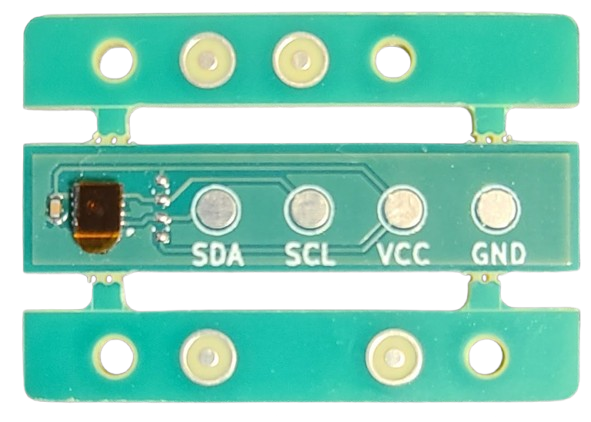
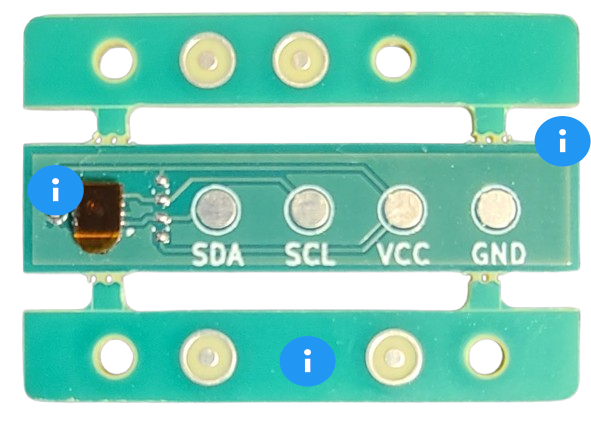
updating cold storage link on home page

Changed region(s): [[0.0305, 0.3697, 0.1523, 0.5237], [0.8832, 0.2773, 1.0, 0.4005], [0.4569, 0.8009, 0.5787, 0.9242]]

diff --git a/src/routes/product/cw-air-th/+page.svelte b/src/routes/product/cw-air-th/+page.svelte
@@ -118,6 +118,16 @@
 		isContactFormOpen = false;
 	}
 
+	let activeTooltip = $state(null);
+
+	function showTooltip(id) {
+		activeTooltip = id;
+	}
+
+	function hideTooltip() {
+		activeTooltip = null;
+	}
+
 	onMount(() => {
 		// Any initialization code can go here
 	});
@@ -388,57 +398,152 @@
 			<div class="relative rounded-lg bg-gray-50 p-6 shadow-lg">
 				<h3 class="mb-4 text-xl font-semibold text-gray-800">Sensor Detail View</h3>
 				<div class="relative">
-					<img 
-						src="/images/cw-sht31-DIS-P-FRONT.png" 
-						alt="CropWatch Air TH Sensor Board" 
+					<!-- Image with map attribute -->
+					<img
+						src="/images/cw-sht31-DIS-P-FRONT.png"
+						alt="CropWatch Air TH Sensor Board"
 						class="mx-auto h-auto w-full max-w-md object-contain"
+						usemap="#sensor-map"
 					/>
-					
-					<!-- SVG Overlay for annotations -->
-					<svg class="absolute inset-0 h-full w-full" viewBox="0 0 500 500" fill="none" xmlns="http://www.w3.org/2000/svg">
-						<!-- Line to Sensirion Chip -->
-						<path d="M150,180 L80,100" stroke="#22c55e" stroke-width="2" />
-						<circle cx="150" cy="180" r="5" fill="#22c55e" />
-						
-						<!-- Text bubble for Sensirion Chip -->
-						<rect x="10" y="60" width="160" height="40" rx="5" fill="#22c55e" />
-						<text x="20" y="85" font-family="Arial" font-size="12" fill="white">Genuine Sensirion SHT31 Sensor</text>
-						
-						<!-- Line to Main Board -->
-						<path d="M300,220 L380,170" stroke="#22c55e" stroke-width="2" />
-						<circle cx="300" cy="220" r="5" fill="#22c55e" />
-						
-						<!-- Text bubble for Conformal Coating -->
-						<rect x="320" y="140" width="160" height="40" rx="5" fill="#22c55e" />
-						<text x="330" y="165" font-family="Arial" font-size="12" fill="white">Conformal Coated Board</text>
-					</svg>
+
+					<!-- Image map definition -->
+					<map name="sensor-map">
+						<!-- Sensor IC area -->
+						<area
+							shape="circle"
+							coords="45,146,27"
+							alt="Temperature/Humidity Sensor"
+							href="javascript:void(0)"
+							on:mouseover={() => showTooltip('sensor')}
+							on:mouseout={hideTooltip}
+						/>
+
+						<!-- I²C Connector area -->
+						<area
+							shape="circle"
+							coords="425,100,27"
+							alt="Conformal Coated PCB"
+							href="javascript:void(0)"
+							on:mouseover={() => showTooltip('pcb')}
+							on:mouseout={hideTooltip}
+						/>
+
+						<!-- PCB Board area -->
+						<area
+							shape="circle"
+							coords="235,280,27"
+							alt="PCB Board Connector"
+							href="javascript:void(0)"
+							on:mouseover={() => showTooltip('connector')}
+							on:mouseout={hideTooltip}
+						/>
+					</map>
+
+					<!-- Tooltips - shown conditionally based on activeTooltip -->
+					{#if activeTooltip === 'sensor'}
+						<div
+							class="absolute left-1/2 top-1/3 z-10 -translate-x-1/2 -translate-y-full transform rounded-md bg-black bg-opacity-90 p-3 text-white shadow-lg"
+						>
+							<h4 class="mb-1 font-bold">SHT31-DIS Sensor</h4>
+							<p class="text-sm">
+								High-quality digital temperature and humidity sensor with built-in heater for
+								greater humidity accuracy.
+							</p>
+						</div>
+					{/if}
+
+					{#if activeTooltip === 'connector'}
+						<div
+							class="absolute bottom-0 left-1/2 z-10 -translate-x-1/2 translate-y-full transform rounded-md bg-black bg-opacity-90 p-3 text-white shadow-lg"
+						>
+							<h4 class="mb-1 font-bold">Conformal Coated PCB</h4>
+							<p class="text-sm">
+								Our PCB & sensor is conformal coated for higher reliability in humid, wet, and
+								difficult environments.
+							</p>
+						</div>
+					{/if}
+
+					{#if activeTooltip === 'pcb'}
+						<div
+							class="absolute right-0 top-1/2 z-10 -translate-y-1/2 translate-x-1/4 transform rounded-md bg-black bg-opacity-90 p-3 text-white shadow-lg"
+						>
+							<h4 class="mb-1 font-bold">User Replacable</h4>
+							<p class="text-sm">
+								Quick disconnect plug to allow the user to quickly replace our sensor or to plug
+								into a test platform to ensure accuracy.
+							</p>
+						</div>
+					{/if}
 				</div>
-				<p class="mt-4 text-gray-600">High-precision environmental monitoring component with industry-leading sensor technology</p>
+				<p class="mt-4 text-gray-600">
+					High-precision environmental monitoring component with industry-leading sensor technology
+				</p>
 			</div>
-			
+
 			<!-- Second Image with Annotations -->
 			<div class="relative rounded-lg bg-gray-50 p-6 shadow-lg">
 				<h3 class="mb-4 text-xl font-semibold text-gray-800">Logo & Serial Detail</h3>
 				<div class="relative">
-					<img 
-						src="/images/cw-sht31-DIS-P-BACK.png" 
-						alt="CropWatch Logo and Serial Number" 
+					<!-- Image with map attribute -->
+					<img
+						src="/images/cw-sht31-DIS-P-BACK.png"
+						alt="CropWatch Air TH Sensor Board"
 						class="mx-auto h-auto w-full max-w-md object-contain"
+						usemap="#sensor-map"
 					/>
+
+					<!-- Image map definition -->
+					<map name="sensor-map-back">
+						<!-- Sensor IC area -->
+						<area
+							style="debug-shape"
+							shape="circle"
+							coords="0,146,27"
+							alt="CropWatch Logo"
+							href="javascript:void(0)"
+							on:mouseover={() => showTooltip('logo')}
+							on:mouseout={hideTooltip}
+						/>
+
+						<!-- I²C Connector area -->
+						<!-- <area
+							shape="circle"
+							coords="150,220,27"
+							alt="id"
+							href="javascript:void(0)"
+							on:mouseover={() => showTooltip('id')}
+							on:mouseout={hideTooltip}
+						/> -->
+					</map>
+					{#if activeTooltip === 'logo'}
+						<div
+							class="absolute bottom-0 left-1/2 z-10 -translate-x-1/2 translate-y-full transform rounded-md bg-black bg-opacity-90 p-3 text-white shadow-lg"
+						>
+							<h4 class="mb-1 font-bold">CropWatch Logo</h4>
+							<p class="text-sm">
+								Our PCB & sensor is conformal coated for higher reliability in humid, wet, and
+								difficult environments.
+							</p>
+						</div>
+					{/if}
+
+					{#if activeTooltip === 'id'}
+						<div
+							class="absolute right-0 top-1/2 z-10 -translate-y-1/2 translate-x-1/4 transform rounded-md bg-black bg-opacity-90 p-3 text-white shadow-lg"
+						>
+							<h4 class="mb-1 font-bold">User Replacable</h4>
+							<p class="text-sm">
+								Quick disconnect plug to allow the user to quickly replace our sensor or to plug
+								into a test platform to ensure accuracy.
+							</p>
+						</div>
+					{/if}
 					
-					<!-- SVG Overlay for annotations -->
-					<svg class="absolute inset-0 h-full w-full" viewBox="0 0 500 500" fill="none" xmlns="http://www.w3.org/2000/svg">
-						<!-- Line to CropWatch Logo -->
-						<path d="M250,180 L350,80" stroke="#22c55e" stroke-width="2" />
-						<circle cx="250" cy="180" r="5" fill="#22c55e" />
-						
-						<!-- Text bubble for Logo area -->
-						<rect x="280" y="40" width="200" height="50" rx="5" fill="#22c55e" />
-						<text x="290" y="65" font-family="Arial" font-size="12" fill="white">Sensirion Serial Number &</text>
-						<text x="290" y="80" font-family="Arial" font-size="12" fill="white">CropWatch Logo for Quality Verification</text>
-					</svg>
 				</div>
-				<p class="mt-4 text-gray-600">Each device comes with a unique serial number and authentic CropWatch branding</p>
+				<p class="mt-4 text-gray-600">
+					Each device comes with a unique serial number and authentic CropWatch branding
+				</p>
 			</div>
 		</div>
 
@@ -452,7 +557,8 @@
 				</div>
 				<div class="p-4">
 					<p class="mb-4 text-gray-700">
-						High-precision temperature monitoring with ±0.3°C accuracy across a wide operating range.
+						High-precision temperature monitoring with ±0.3°C accuracy across a wide operating
+						range.
 					</p>
 					<ul class="mb-4 list-disc pl-5 text-gray-700">
 						<li>Range: -40°C to +85°C</li>
@@ -556,7 +662,7 @@
 </section>
 
 <!-- Testimonials -->
-<section class="bg-gray-200 py-16">
+<!-- <section class="bg-gray-200 py-16">
 	<div class="container mx-auto px-4 md:px-8">
 		<h2 class="mb-12 text-center text-3xl font-bold text-gray-800">What Our Customers Say</h2>
 
@@ -585,12 +691,12 @@
 			{/each}
 		</div>
 	</div>
-</section>
+</section> -->
 
 <!-- Call to Action -->
 <section class="bg-green-700 py-16 text-white">
 	<div class="container mx-auto px-4 text-center md:px-8">
-		<h2 class="mb-6 text-3xl font-bold">Ready to Transform Your Environmental Monitoring?</h2>
+		<h2 class="mb-6 text-3xl font-bold">Ready to Transform Your Cold-Chain Monitoring?</h2>
 		<p class="mx-auto mb-8 max-w-3xl text-xl">
 			Join the growing number of businesses that trust CropWatch for their critical monitoring
 			needs.
@@ -725,3 +831,13 @@
 		</div>
 	</div>
 </footer>
+
+
+
+<style>
+.debug-shape {
+	position: absolute;
+	border: 2px dashed red;
+	background-color: rgba(255, 0, 0, 0.2);
+  }
+</style>

diff --git a/src/routes/+page.svelte b/src/routes/+page.svelte
@@ -110,32 +110,11 @@
 				image={COLD_STORAGE_IMAGE}
 				title={m.home_solutions_cold_storage_title()}
 				description={m.home_solutions_cold_storage_description()}
-				link="/product/categories/cold-storage"
+				link="/product/cw-air-th"
 				/>
 		</div>
 	</div>
 </section>
-
-<!-- <section id="products-quickview" class="bg-amber-600 py-10 text-white">
-	<div class="container mx-auto text-center">
-		<h2 class="text-3xl mt-4 font-bold">Helping you find the best solution for your IoT project</h2>
-		<p class="mt-4">
-			Click the items below to learn about some of the most popular IoT communication methods
-		</p>
-	</div>
-	<div class="flex flex-row justify-center">
-		<a href="/product/categories/lorawan" class="m-4">
-			<img src="/images/lorawan.png" alt="LoRaWan" class="w-32 h-32" />
-		</a>
-		<a href="/product/categories/wifi" class="m-4">
-			<img src="/images/wifi.png" alt="wifi" class="w-32 h-32" />
-		</a>
-		<a href="/product/categories/lte" class="m-4">
-			<img src="/image/lte.png" alt="lte" class="w-32 h-32" />
-		</a>
-
-	</div>
-</section> -->
 
 <!-- Products Quickview Section -->
 <section id="products-quickview" class="bg-gray-600 py-10 text-white">
